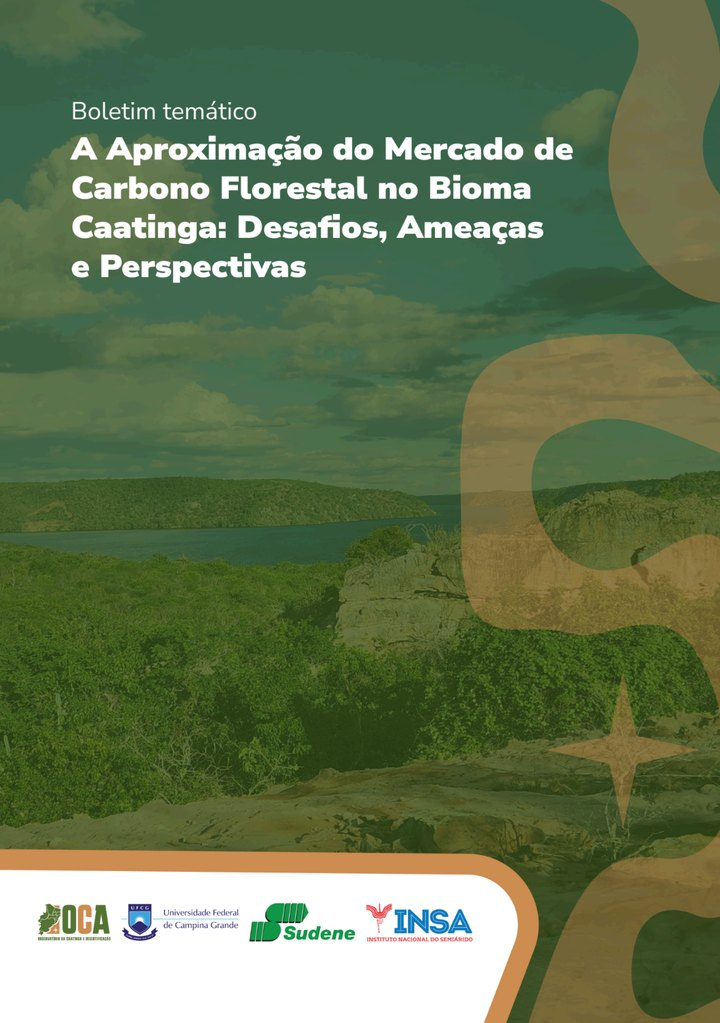
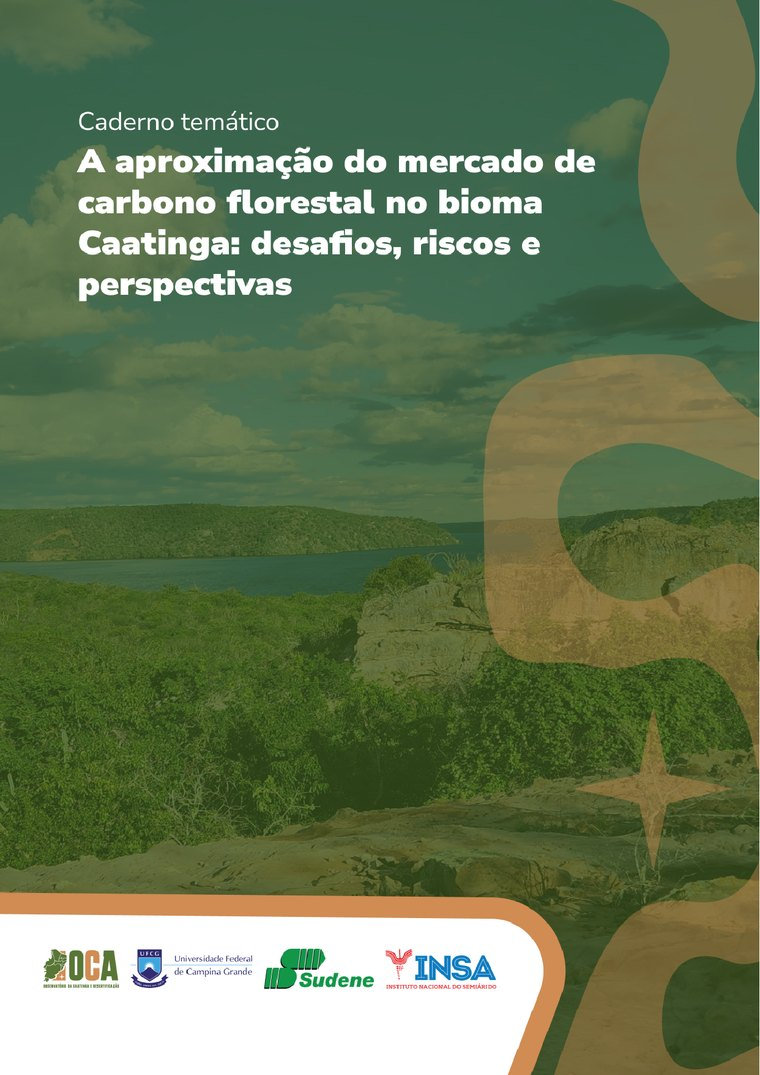
fix: use the caderno's final title and cover in the shipped content
The final caderno reads "desafios, riscos e perspectivas" under "Caderno
temático"; the title and cover the site shipped with still said
"ameaças" under the publication's former name, "Boletim temático". The
Contentful entry was updated to the final title, cover and PDF on
2026-09-29; this brings the fallback in line, so the site shows the same
publication when Contentful is down. The cover is page 1 of the final
PDF at 760x1075, the size of the cartilha covers.

diff --git a/lib/content/comunicacao.ts b/lib/content/comunicacao.ts
@@ -72,7 +72,7 @@ export const DEFAULT_CARTILHAS: Cartilha[] = [
 export const DEFAULT_CADERNO: Caderno = {
   slug: 'caderno-mercado-de-carbono-florestal-na-caatinga',
   title:
-    'A aproximação do mercado de carbono florestal no bioma Caatinga: desafios, ameaças e perspectivas',
+    'A aproximação do mercado de carbono florestal no bioma Caatinga: desafios, riscos e perspectivas',
   description:
     'Reúne o que a ciência revela, o que a legislação estabelece e o que está em jogo para a Caatinga, em cinco seções que norteiam cidadãos, gestores públicos, organizações e investidores antes de se posicionarem no debate.',
   cover: '/images/cartilhas/caderno.jpg',

diff --git a/IMAGENS.md b/IMAGENS.md
@@ -19,13 +19,13 @@ Capas da coleção "Mercado de carbono: o que isso tem a ver com a Caatinga?", p
 | Arquivo | Origem | Uso |
 |---|---|---|
 | `vol1.jpg` a `vol4.jpg` | `cartilhas/01.png` a `04.png` | Grade dos 4 volumes |
-| `caderno.jpg` | `cartilhas/boletim.png` | Bloco de destaque do caderno temático |
+| `caderno.jpg` | página 1 do PDF final do caderno (29/09/2026), renderizada com Ghostscript a 150 dpi e reduzida para 760×1075 | Capa do caderno temático |
 
 `colecao_banner.jpg` (recorte de `cartilhas/todas.png`, usado no remate da seção) foi removido junto com o trecho que o usava; o arquivo não existe mais em `public/images/cartilhas/`.
 
 Observação: a capa do Volume 1 tem um erro de digitação na arte ("O que é crédito de caborno?"). A legenda na landing usa a grafia correta ("carbono"). Para corrigir a imagem, é preciso editar o arquivo original da cartilha. O `todas.png` traz um quadrado de QR em branco (placeholder de impressão); por isso a landing usa o recorte sem essa área.
 
-Observação: a arte da capa do caderno ainda traz o rótulo "Boletim temático", nome anterior da publicação. O rótulo na landing e o content type no Contentful já usam "Caderno Temático"; a imagem discorda porque o texto está embutido no design. Para alinhar, é preciso editar o original, regerar o JPEG e substituir o asset no Contentful — a página usa o asset do CMS, e o `caderno.jpg` só entra no fallback, então as duas cópias precisam ser trocadas.
+A capa do caderno vem da versão final da publicação ("Caderno temático… desafios, riscos e perspectivas"), que substituiu a arte antiga ("Boletim temático… Desafios, Ameaças e Perspectivas") em 29/09/2026, junto com o título. A troca foi feita nas duas cópias: o asset da capa no Contentful, que a página usa, e o `caderno.jpg`, que só entra no fallback.
 
 ## Comunicação (public/images/comunicacao/)
 
